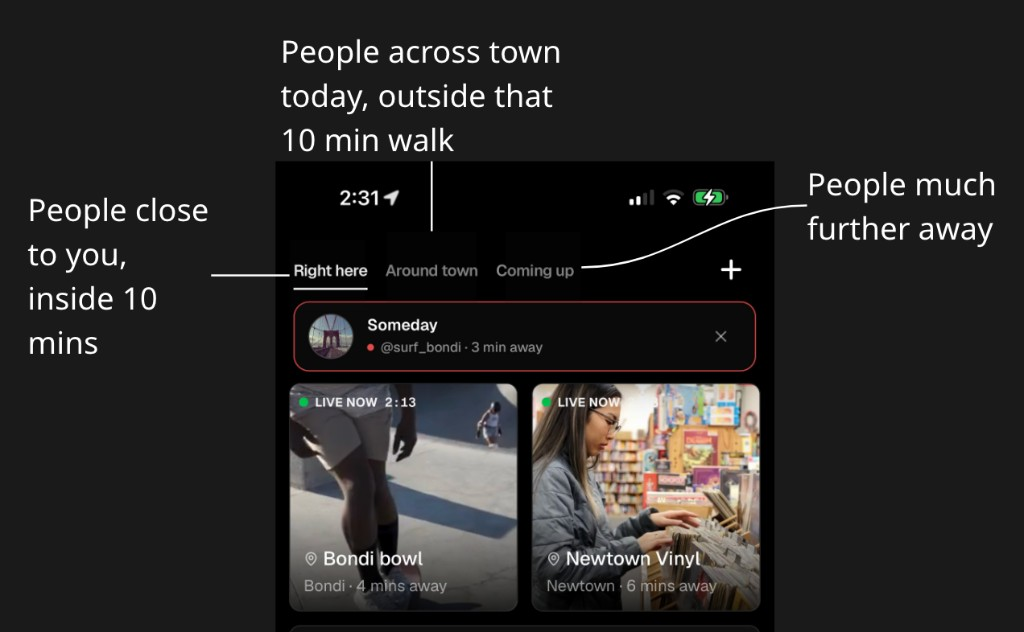
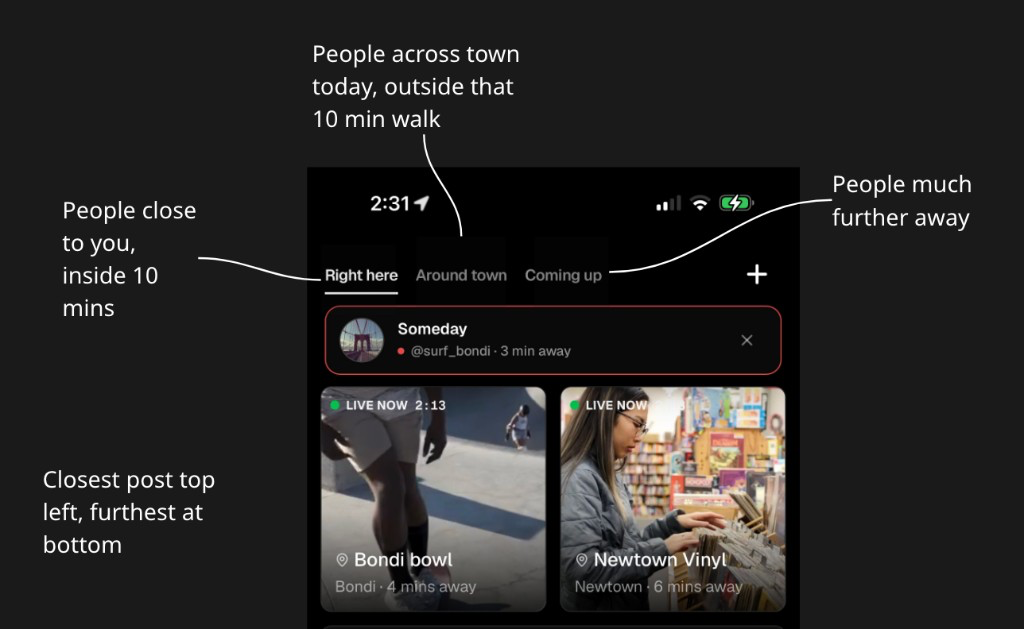
Replace Signal time-tabs intro screenshot with annotated feed mock.

Changed region(s): [[0.1875, 0.0604, 0.9688, 1.0], [0.0312, 0.3021, 0.2188, 0.5739], [0.0312, 0.7552, 0.2188, 0.876]]

diff --git a/3bf5da56cb82/index.html b/3bf5da56cb82/index.html
@@ -354,10 +354,10 @@
         </div>
         <figure class="intro-signal-figure">
           <img
-            src="images/signal-time-tabs-orientation.png?v=1"
-            width="885"
-            height="1920"
-            alt="Signal time tabs: Right here within 10 minutes, Around town later today, Coming up farther out"
+            src="images/signal-time-tabs-orientation.png?v=2"
+            width="1024"
+            height="629"
+            alt="Signal time tabs annotated: Right here within 10 minutes, Around town across town today, Coming up farther out; feed sorted closest top-left"
             loading="lazy"
           />
           <figcaption>Right here · Around town · Coming up</figcaption>
